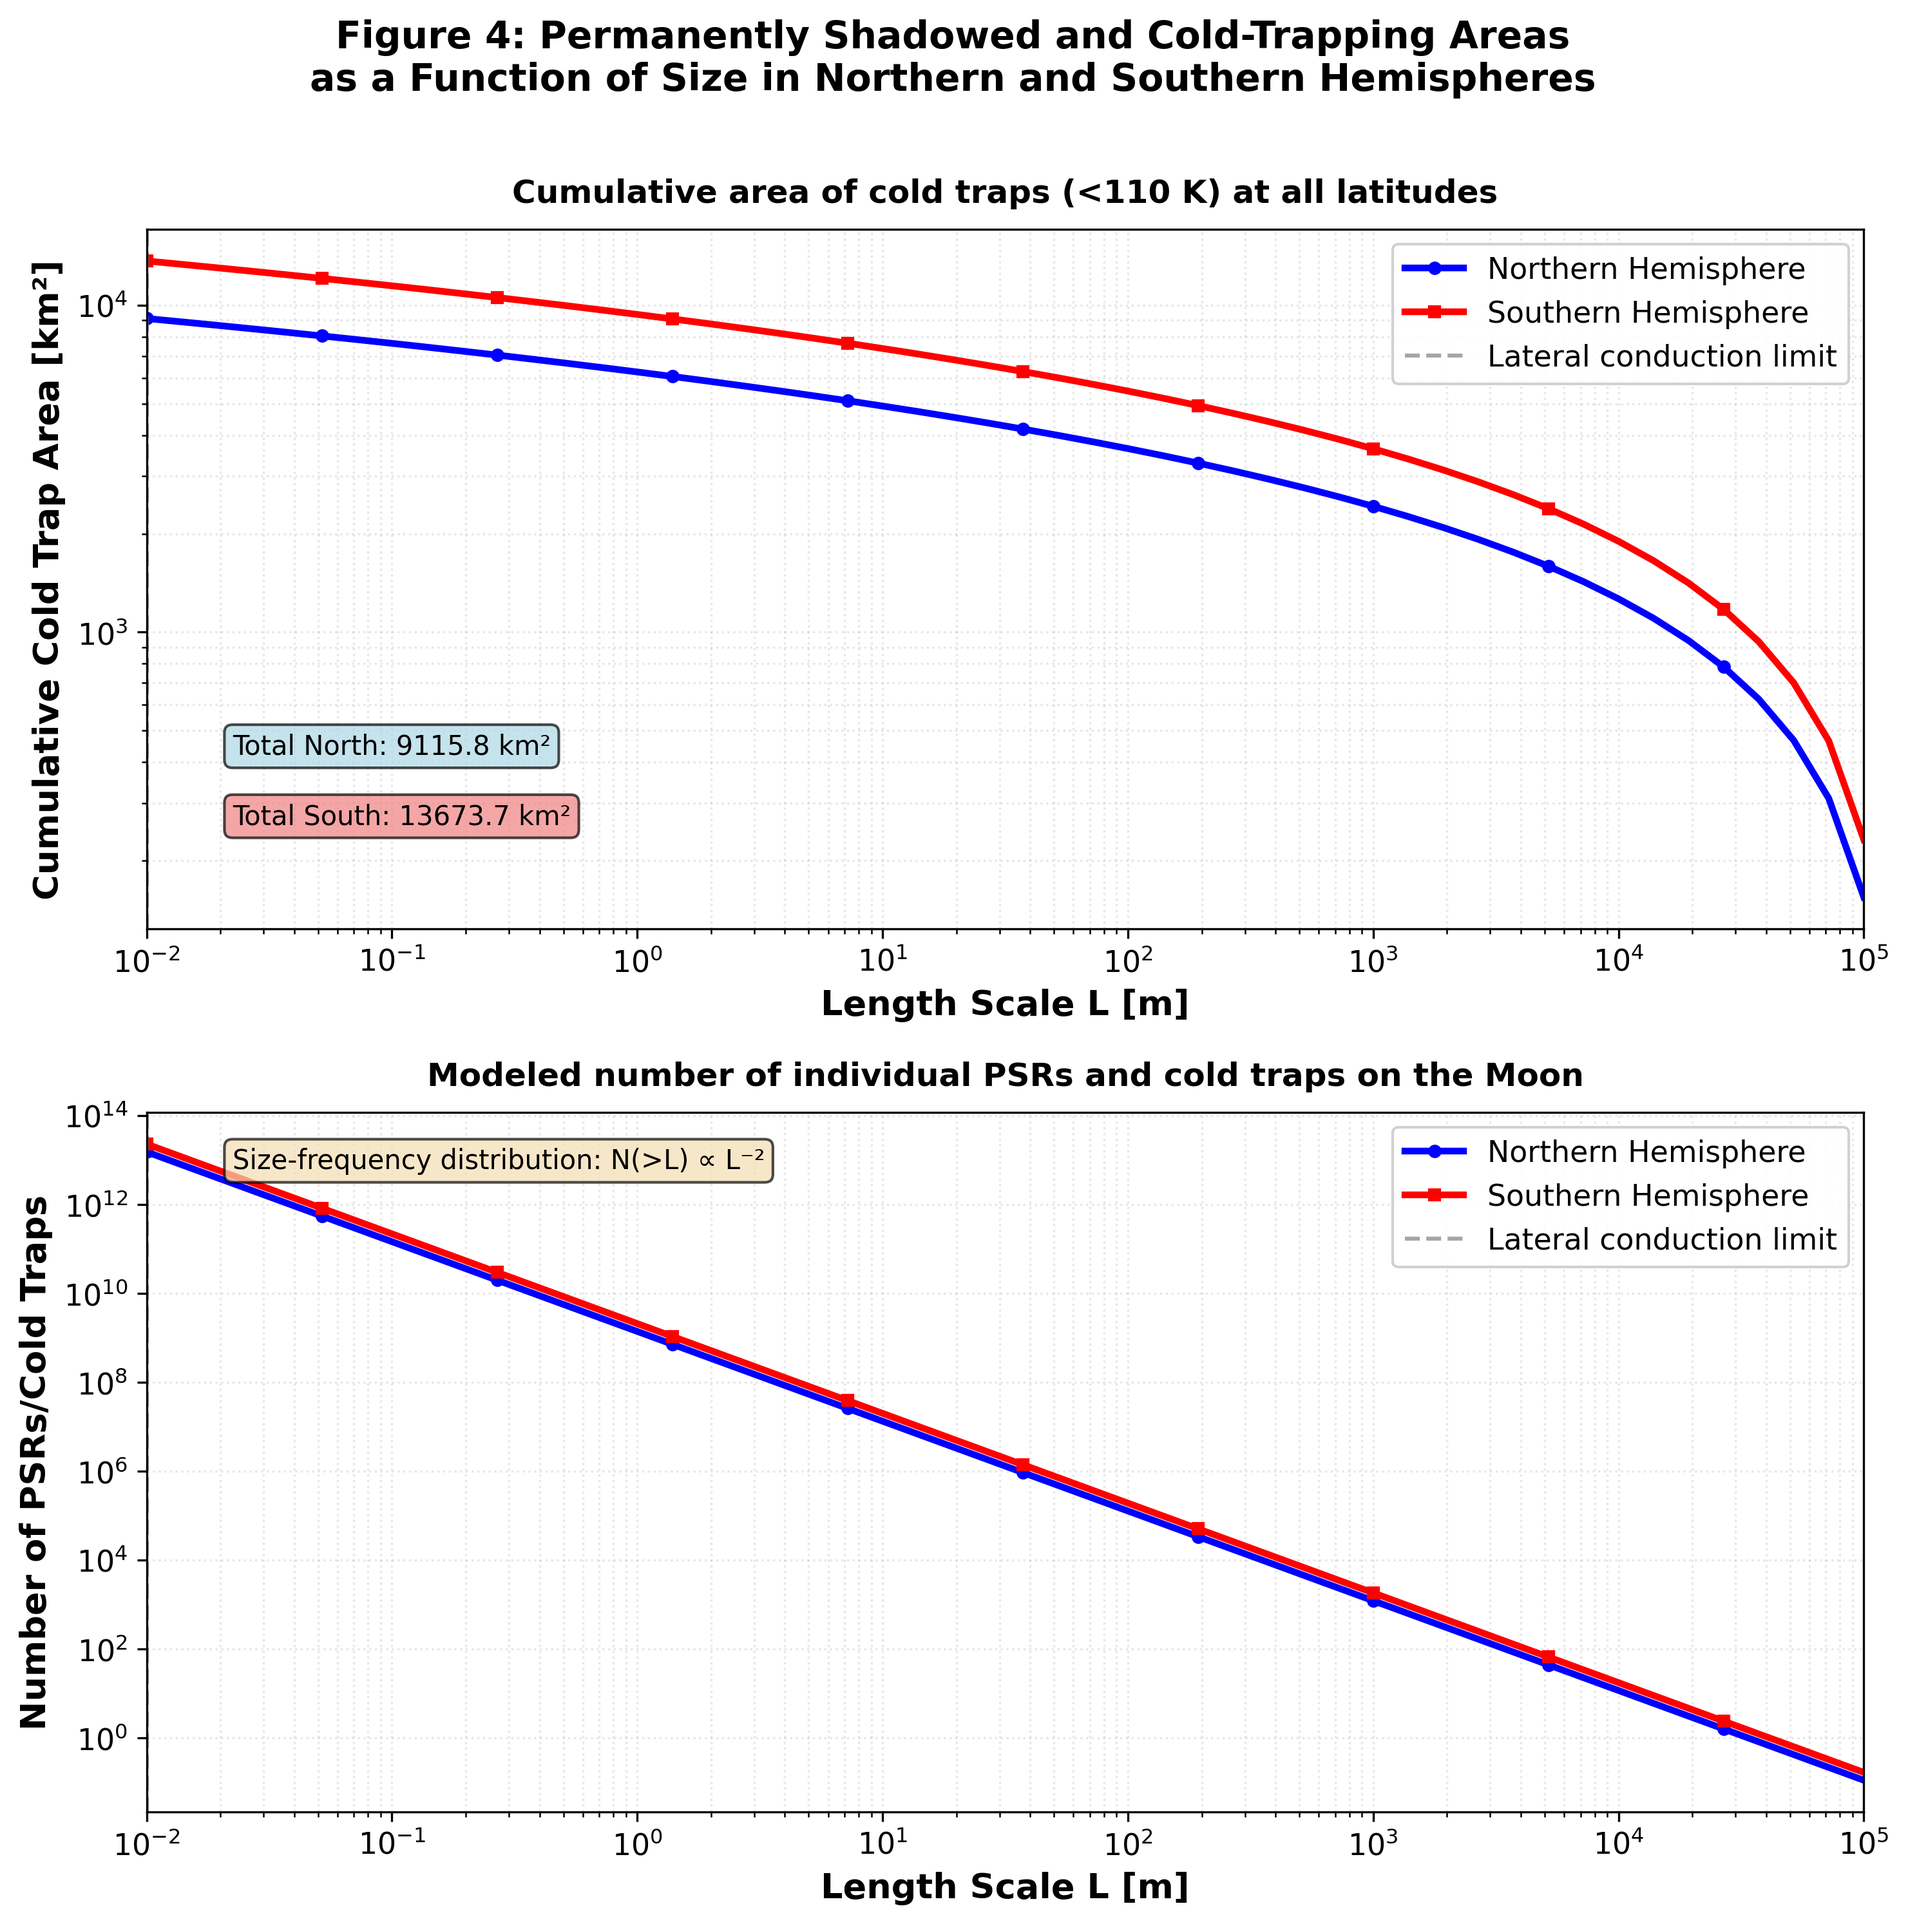
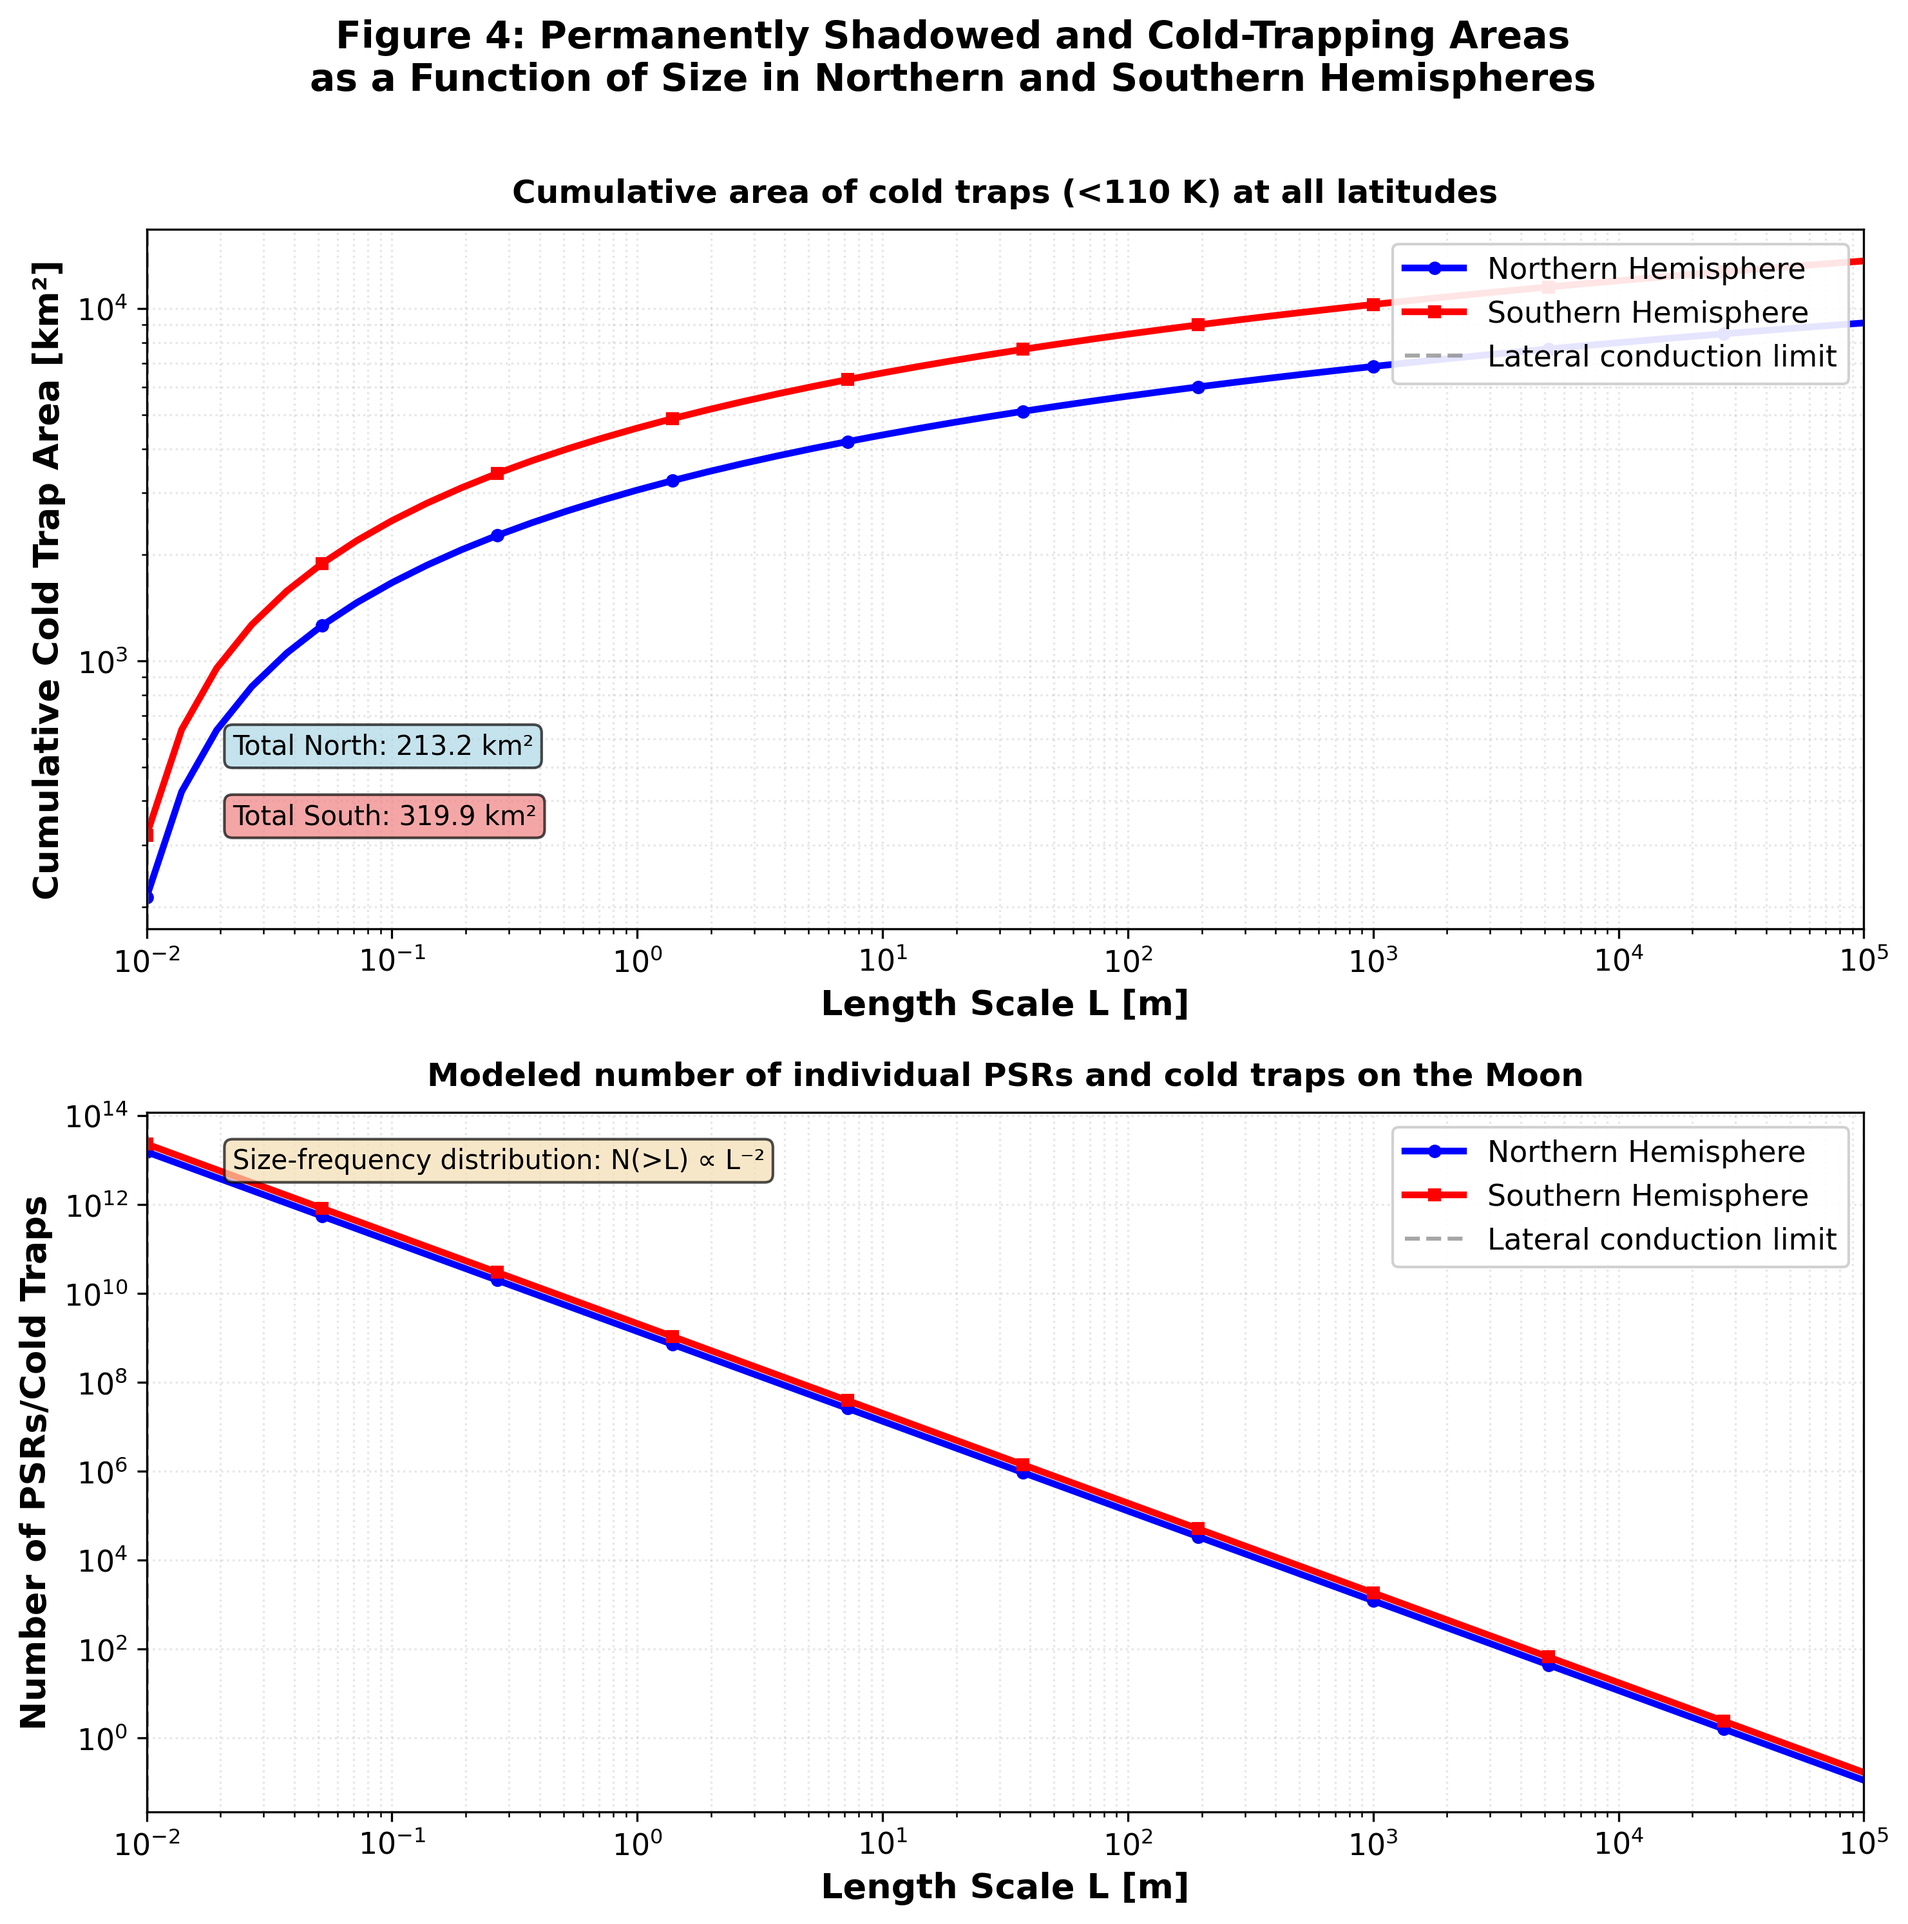
Fix Figure 4 top panel: Correct cumulative area calculation
The cumulative area was being calculated backwards (large to small).
Changed from np.cumsum(A[::-1])[::-1] to np.cumsum(A) to properly
accumulate from small to large length scales, showing total area
of cold traps with size <= L.

diff --git a/generate_figure4_psr_coldtraps.py b/generate_figure4_psr_coldtraps.py
@@ -155,9 +155,10 @@ def plot_figure4(L_bins: np.ndarray, N_north: np.ndarray, N_south: np.ndarray,
     # TOP PANEL: Cumulative cold trap area
     # ========================================================================
 
-    # Calculate cumulative areas (from large to small features)
-    A_north_cumulative = np.cumsum(A_north[::-1])[::-1]
-    A_south_cumulative = np.cumsum(A_south[::-1])[::-1]
+    # Calculate cumulative areas (from small to large features)
+    # For each L, show total area of all cold traps with size <= L
+    A_north_cumulative = np.cumsum(A_north)
+    A_south_cumulative = np.cumsum(A_south)
 
     ax_top.loglog(L_bins, A_north_cumulative, 'b-', linewidth=2.5,
                   label='Northern Hemisphere', marker='o', markersize=4, markevery=5)
